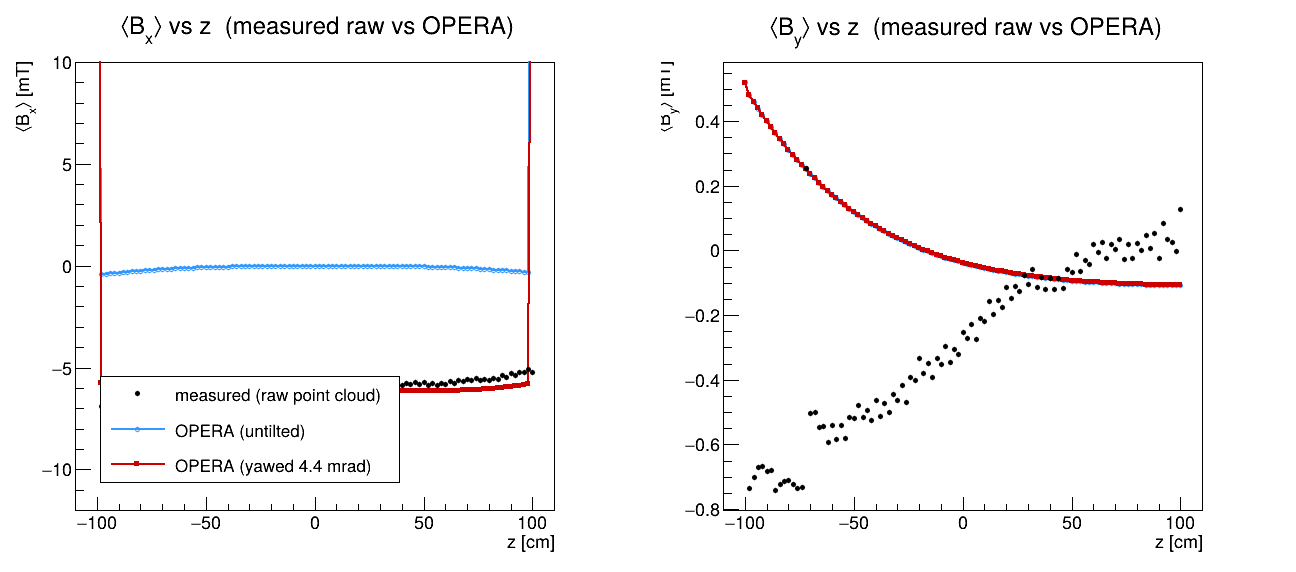
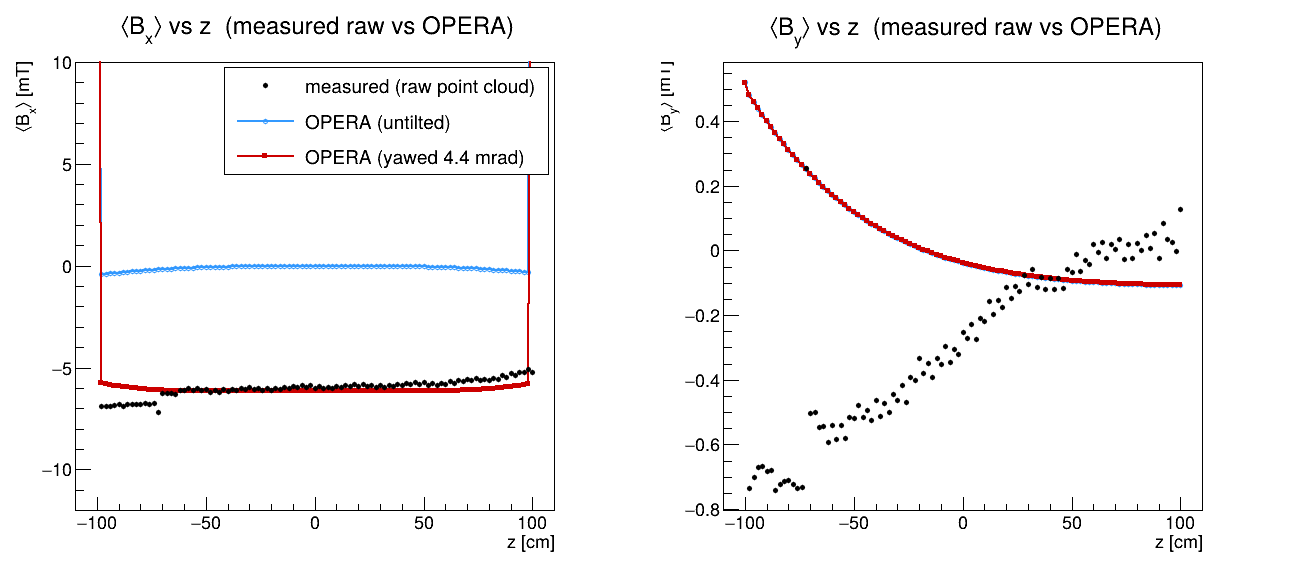
compareTiltedOpera: move legend out of the data in transverse_vs_z
The legend sat in the lower-left over the ~-6 mT measured points and yawed-OPERA
curve; moved to the empty upper region.

diff --git a/comparison/compareTiltedOpera.C b/comparison/compareTiltedOpera.C
@@ -229,7 +229,7 @@ void compareTiltedOpera(const char *dataDir  = nullptr,
     mgx->Add(gOp0X,"LP"); mgx->Add(gOpTX,"LP"); mgx->Add(gMeasX,"P");
     mgx->SetMinimum(-12.); mgx->SetMaximum(10.);   // crop the z=+/-100 grid-edge spikes
     mgx->Draw("A");
-    TLegend *lg=new TLegend(0.14,0.15,0.62,0.34);
+    TLegend *lg=new TLegend(0.34,0.70,0.86,0.89);
     lg->AddEntry(gMeasX,"measured (raw point cloud)","p");
     lg->AddEntry(gOp0X,"OPERA (untilted)","lp");
     lg->AddEntry(gOpTX,"OPERA (yawed 4.4 mrad)","lp");
